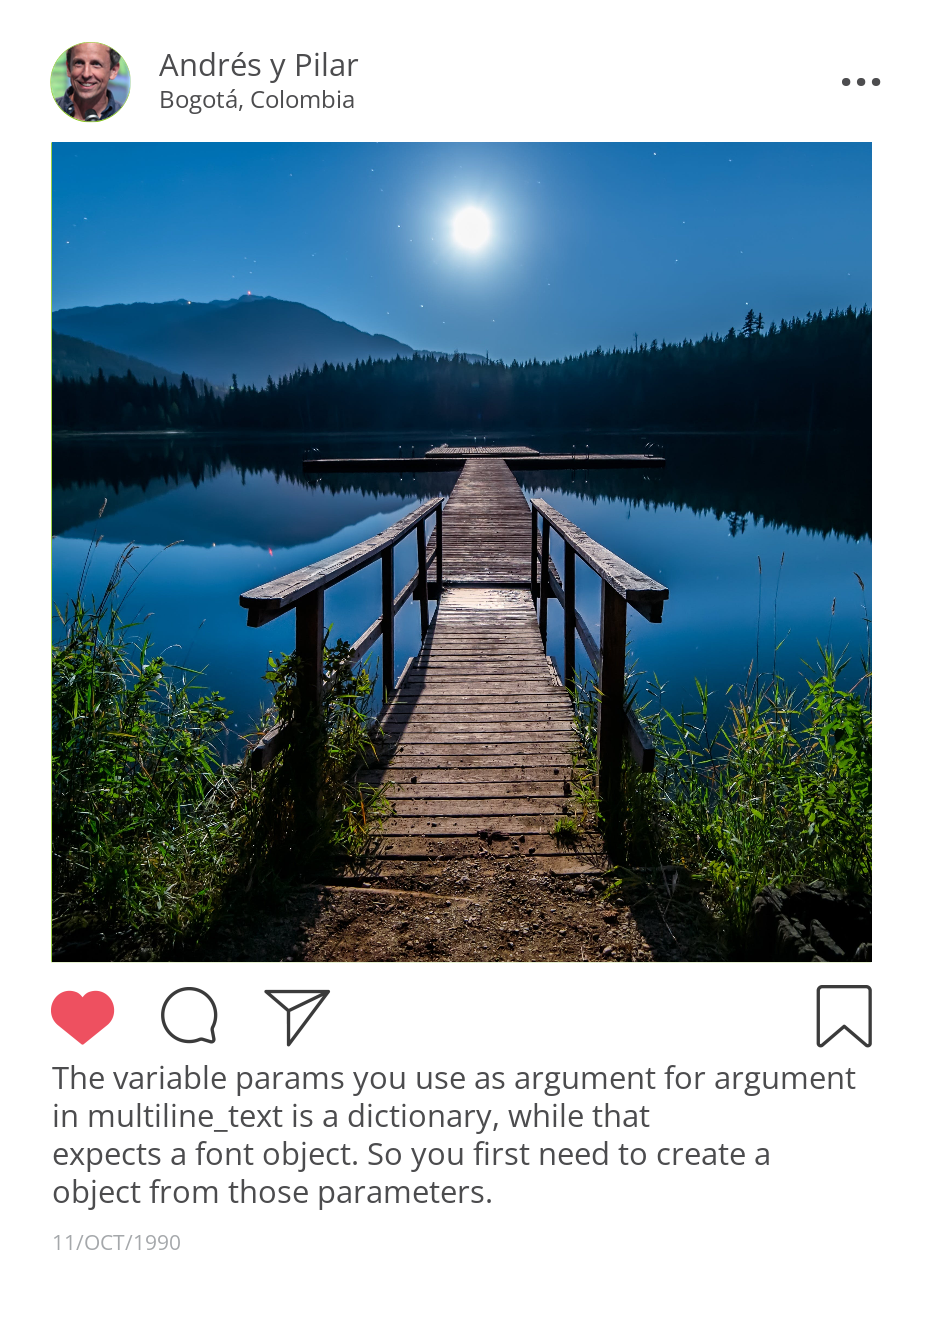
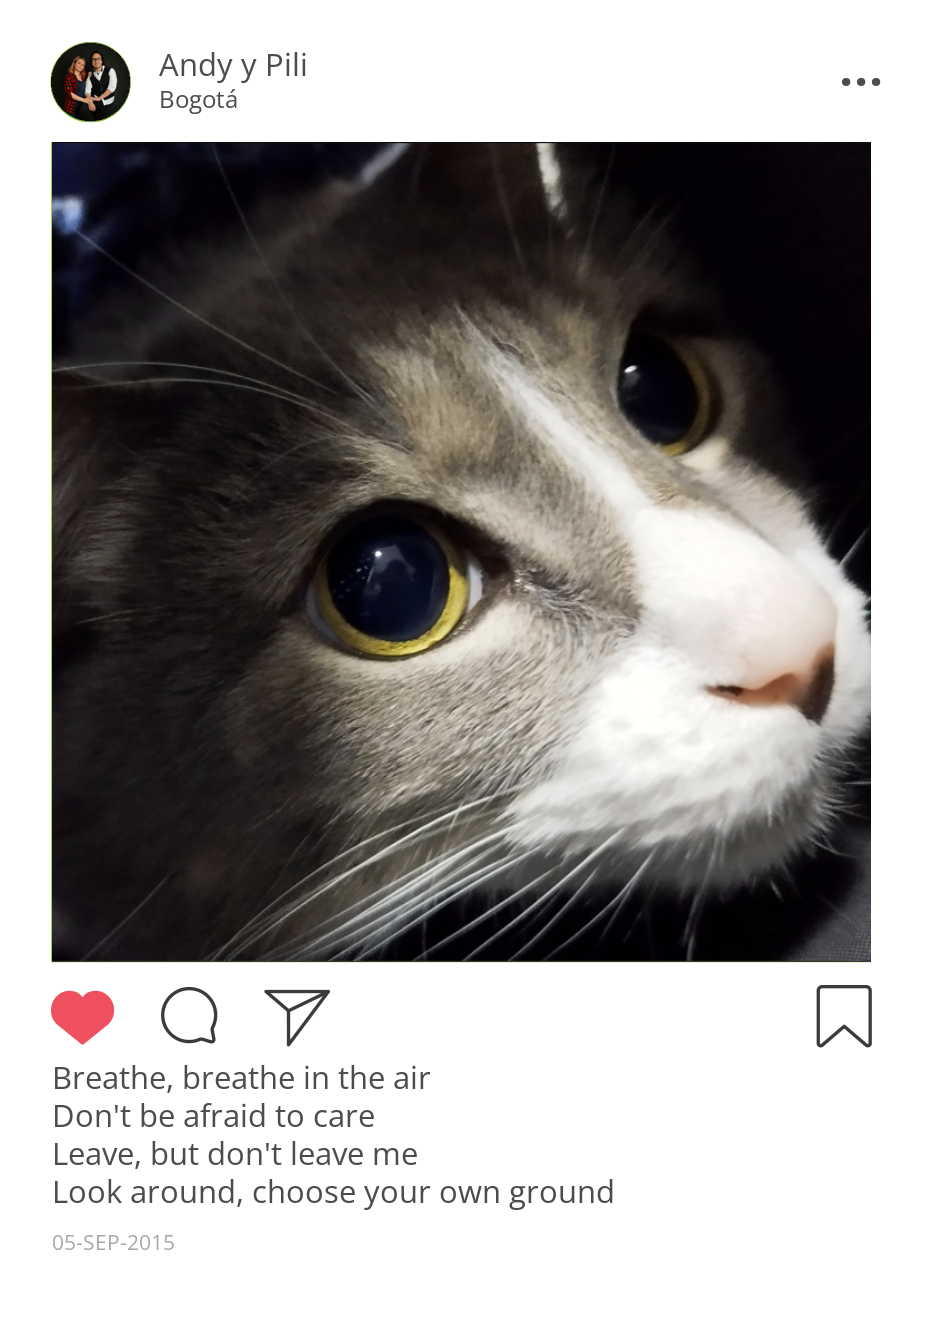
Added drag-and-drop + download functionality

diff --git a/src/app/app.component.ts b/src/app/app.component.ts
@@ -1,10 +1,11 @@
-import {AfterViewInit, Component, ElementRef, Input, ViewChild} from '@angular/core';
+import {AfterViewInit, Component, ElementRef, Inject, Input, ViewChild} from '@angular/core';
 import {CommonModule, NgOptimizedImage} from '@angular/common';
 import { RouterOutlet } from '@angular/router';
 import {AngularCropperjsModule, CropperComponent} from 'angular-cropperjs';
 import {HttpClient, HttpClientModule, HttpHeaders, HttpResponse} from '@angular/common/http';
 import {FormsModule} from "@angular/forms";
-import { isDevMode } from '@angular/core';
+import { isDevMode, LOCALE_ID } from '@angular/core';
+import { formatDate } from '@angular/common';
 
 
 @Component({
@@ -23,13 +24,15 @@ export class AppComponent implements AfterViewInit {
   res = 'assets/Untitled.png'
 
   // text variables
-  @Input() username: string = ''
-  @Input() location: string = ''
+  @Input() username: string = 'Andy y Pili'
+  @Input() location: string = 'Bogotá'
   @Input() description: string = ''
-  @Input() date: string = ''
+  @Input() date: string = '05-SEP-2015'
 
+  // button logic
+  is_available_for_download: boolean = false
 
-  constructor(private http: HttpClient) { }
+  constructor(private http: HttpClient, @Inject(LOCALE_ID) private locale: string) { }
 
   @ViewChild('angularCropper') public angularCropper: CropperComponent;
 
@@ -48,25 +51,57 @@ export class AppComponent implements AfterViewInit {
     }
   }
 
-  selectFile(event: any) {
-    if(!event.target.files[0] || event.target.files[0].length == 0) {
-      return;
-    }
+  // drag-and-drop vars
+  files: File[] = [];
 
-    console.log(event.target.files[0].size)
-    if(event.target.files[0].size > 2000000){
+  onDragOver(event: DragEvent) {
+    event.preventDefault();
+    event.stopPropagation();
+  }
+
+  onDragLeave(event: DragEvent) {
+    event.preventDefault();
+    event.stopPropagation();
+  }
+
+  onDrop(event: DragEvent) {
+    event.preventDefault();
+    event.stopPropagation();
+
+    if (event.dataTransfer?.files) {
+      for (let i = 0; i < event.dataTransfer.files.length; i++) {
+        this.files.push(event.dataTransfer.files[i]);
+      }
+    }
+    this.processImage()
+  }
+
+  onFileSelect(event: Event) {
+    const input = event.target as HTMLInputElement;
+    if (input.files) {
+      for (let i = 0; i < input.files.length; i++) {
+        this.files.push(input.files[i]);
+      }
+    }
+    this.processImage()
+  }
+
+  // process image after selected
+  processImage(){
+    console.log(this.files[0])
+    if(this.files[0].size > 5000000){
       alert("File is too big!");
       return;
     }
 
-    const mimeType = event.target.files[0].type;
+    const mimeType = this.files[0].type;
 
     if (mimeType.match(/image\/*/) == null) {
       return;
     }
 
-    var reader = new FileReader();
-    reader.readAsDataURL(event.target.files[0]);
+    let reader = new FileReader();
+    reader.readAsDataURL(this.files[0]);
     reader.onload = (_event) => {
       this.previewImage = reader.result;
       this.image = this.previewImage
@@ -108,15 +143,23 @@ export class AppComponent implements AfterViewInit {
     if (isDevMode()) {
       backend_url = 'http://localhost:5000/test'
     } else {
-      backend_url = 'https://hrsvkzwzlovrlophkbk4w6fkzq0imhmc.lambda-url.us-east-1.on.aws/'
+      backend_url = ''
     }
     this.http.post(
         backend_url,
         data,
         { headers,  observe: 'body', responseType: 'text'}).subscribe(data => {
-      console.log(data);
       this.res = data
+      this.is_available_for_download = true
     })
   }
-}
 
+  downloadImage() {
+    const link = document.createElement('a');
+    link.href = this.res;
+    let currentDateTime: Date = new Date();
+    link.download = formatDate(currentDateTime, 'dd-MM-yyyy-hh:mm:ss', this.locale) + ".png"
+    link.click();
+  }
+
+}

diff --git a/src/app/app.component.html b/src/app/app.component.html
@@ -27,7 +27,16 @@
                     </h2>
                     <div id="collapseOne" class="accordion-collapse collapse show" aria-labelledby="headingOne" data-bs-parent="#accordionExample">
                         <div class="accordion-body">
-                            <input type="file" (change)="selectFile($event)" accept="image/jpeg">
+                            <div
+                              class="drop-zone"
+                              (drop)="onDrop($event)"
+                              (dragover)="onDragOver($event)"
+                              (dragleave)="onDragLeave($event)"
+                            >
+                              <p>Arrastra una imagen aquí</p>
+                              <input type="file" multiple (change)="onFileSelect($event)" hidden #fileInput />
+                              <button (click)="fileInput.click()">Navegar archivos</button>
+                            </div>
                         </div>
                     </div>
                 </div>
@@ -121,7 +130,10 @@
                     </h2>
                     <div id="collapseFive" class="accordion-collapse collapse" aria-labelledby="headingThree" data-bs-parent="#accordionExample">
                         <div class="accordion-body">
-                            <button class="btn btn-primary" (click)="postImage()">Enviar</button>
+                            <div class="d-grid gap-2 d-md-flex">
+                              <button class="btn btn-success me-md-2" (click)="postImage()">Enviar</button>
+                              <button [disabled]="!is_available_for_download" class="btn btn-primary me-md-2" (click)="downloadImage()">Descargar</button>
+                            </div>
                         </div>
                     </div>
                 </div>

diff --git a/src/app/app.component.spec.ts b/src/app/app.component.spec.ts
@@ -14,12 +14,6 @@ describe('AppComponent', () => {
     expect(app).toBeTruthy();
   });
 
-  it(`should have the 'insta-app' title`, () => {
-    const fixture = TestBed.createComponent(AppComponent);
-    const app = fixture.componentInstance;
-    expect(app.title).toEqual('insta-app');
-  });
-
   it('should render title', () => {
     const fixture = TestBed.createComponent(AppComponent);
     fixture.detectChanges();

diff --git a/src/app/app.component.less b/src/app/app.component.less
@@ -1,0 +1,18 @@
+.drop-zone {
+  border: 2px dashed #aaa;
+  padding: 20px;
+  text-align: center;
+  cursor: pointer;
+  background-color: #f9f9f9;
+  transition: background-color 0.3s ease;
+}
+
+.drop-zone:hover {
+  background-color: #e0e0e0;
+}
+
+ul {
+  margin-top: 10px;
+  list-style: none;
+  padding: 0;
+}

diff --git a/src/index.html b/src/index.html
@@ -2,7 +2,7 @@
 <html lang="en">
 <head>
   <meta charset="utf-8">
-  <title>InstaApp</title>
+  <title>Instagram Post Image Generator (IPIG)</title>
   <base href="/">
   <meta name="viewport" content="width=device-width, initial-scale=1">
   <link rel="icon" type="image/x-icon" href="favicon.ico">

diff --git a/python_lib/index.py b/python_lib/index.py
@@ -14,7 +14,7 @@ import json
 
 app = Flask(__name__)
 CORS(app)
-is_local = False
+is_local = True
 
 
 def lambda_handler(event, context):
@@ -51,20 +51,28 @@ def lambda_handler(event, context):
 
     # description
     description_font = ImageFont.truetype('OpenSans.ttf', 31)
-    text = data['description']
+    description_text = data['description']
 
     limit = 54
-    text_split = text.split()
+
+    sentence_split = re.split(r'\n|\r', description_text)
+
     final = ''
     line = ''
-    for word in text_split:
-        if len(line + word + ' ') < limit:
-            line += word + ' '
+    for sentence in sentence_split:
+        if len(sentence) +1 < limit:
+            line = sentence + '\n'
+            final += line
         else:
-            final += line + '\n'
-            line = ''
-    if line != '':
-        final += line
+            word_split = sentence.split()
+            for word in word_split:
+                if len(line + word + ' ') < limit:
+                    line += word + ' '
+                else:
+                    final += line + '\n'
+                    line = ''
+            if line != '':
+                final += line
 
     image_draw.text((52, 1055), final, font=description_font, fill=colour[0])
 

diff --git a/README.md b/README.md
@@ -25,3 +25,5 @@ Run `ng e2e` to execute the end-to-end tests via a platform of your choice. To u
 ## Further help
 
 To get more help on the Angular CLI use `ng help` or go check out the [Angular CLI Overview and Command Reference](https://angular.io/cli) page.
+
+python -m flask --app index run 
